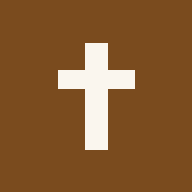
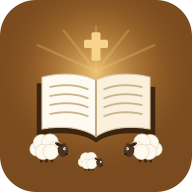
Add files via upload

diff --git a/sw.js b/sw.js
@@ -1,4 +1,4 @@
-const C="fms-v12",F=["./","index.html","manifest.webmanifest","icon.svg","icon-180.png","icon-192.png","icon-512.png"];
+const C="fms-v13",F=["./","index.html","manifest.webmanifest","icon.svg","icon-180.png","icon-192.png","icon-512.png"];
 self.addEventListener("install",e=>{e.waitUntil(caches.open(C).then(c=>c.addAll(F)).then(()=>self.skipWaiting()))});
 self.addEventListener("activate",e=>{e.waitUntil(caches.keys().then(k=>Promise.all(k.filter(x=>x!=C).map(x=>caches.delete(x)))).then(()=>clients.claim()))});
 self.addEventListener("fetch",e=>{if(e.request.method!="GET"||e.request.url.includes("googleapis.com"))return;e.respondWith(fetch(e.request).then(n=>{if(n&&(n.ok||n.type=="opaque")){const c=n.clone();caches.open(C).then(x=>x.put(e.request,c))}return n}).catch(()=>caches.match(e.request).then(r=>r||caches.match("index.html"))))});

diff --git a/index.html b/index.html
@@ -35,7 +35,7 @@ label{display:block;font-size:13px;color:var(--mute);margin:10px 0 3px}
 .nocopy,.nocopy *{-webkit-user-select:none;user-select:none;-webkit-touch-callout:none}
 </style></head><body>
 <header>
-<div class="row"><div style="flex:1"><h1>🐑 Feed My Sheep</h1><div class="verse">“Feed my sheep.” — John 21:17</div></div>
+<div class="row"><div style="flex:1"><h1><img src="icon.svg" alt="" style="height:38px;width:38px;vertical-align:-8px;border-radius:9px;margin-right:8px">Feed My Sheep</h1><div class="verse">“Feed my sheep.” — John 21:17</div></div>
 <select id="yr" style="width:90px"></select></div>
 </header>
 <div class="months" id="months"></div>
